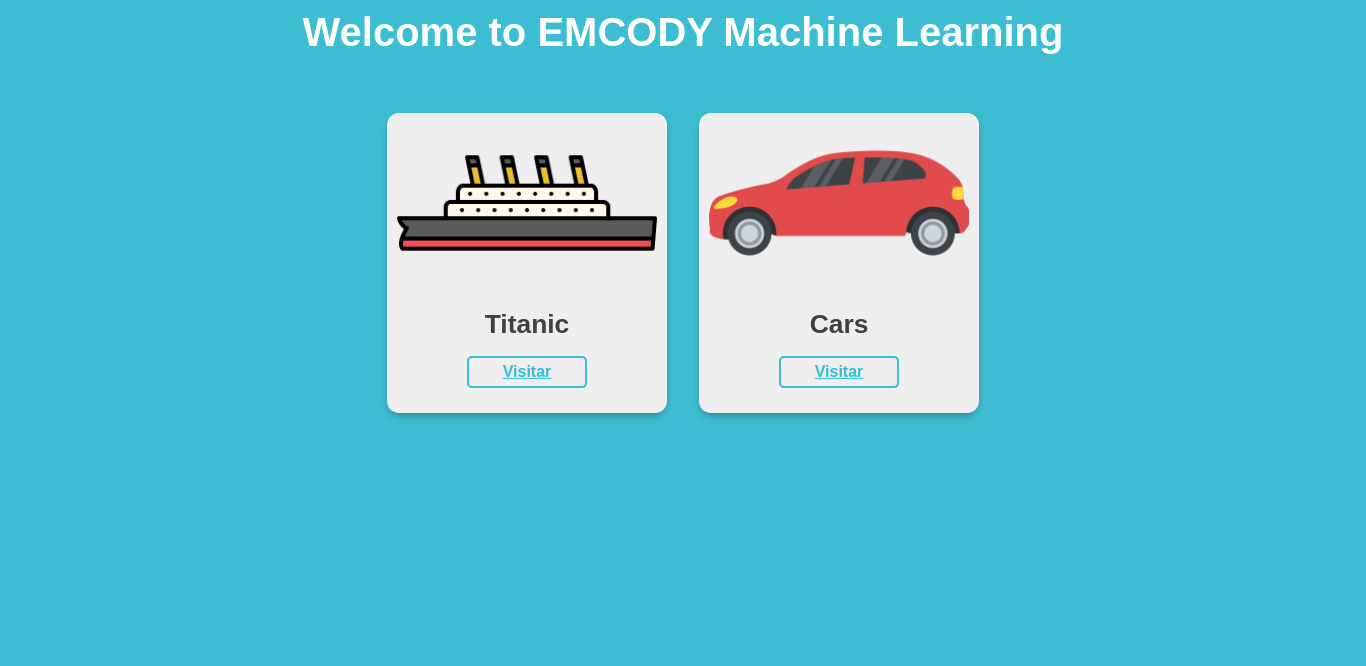
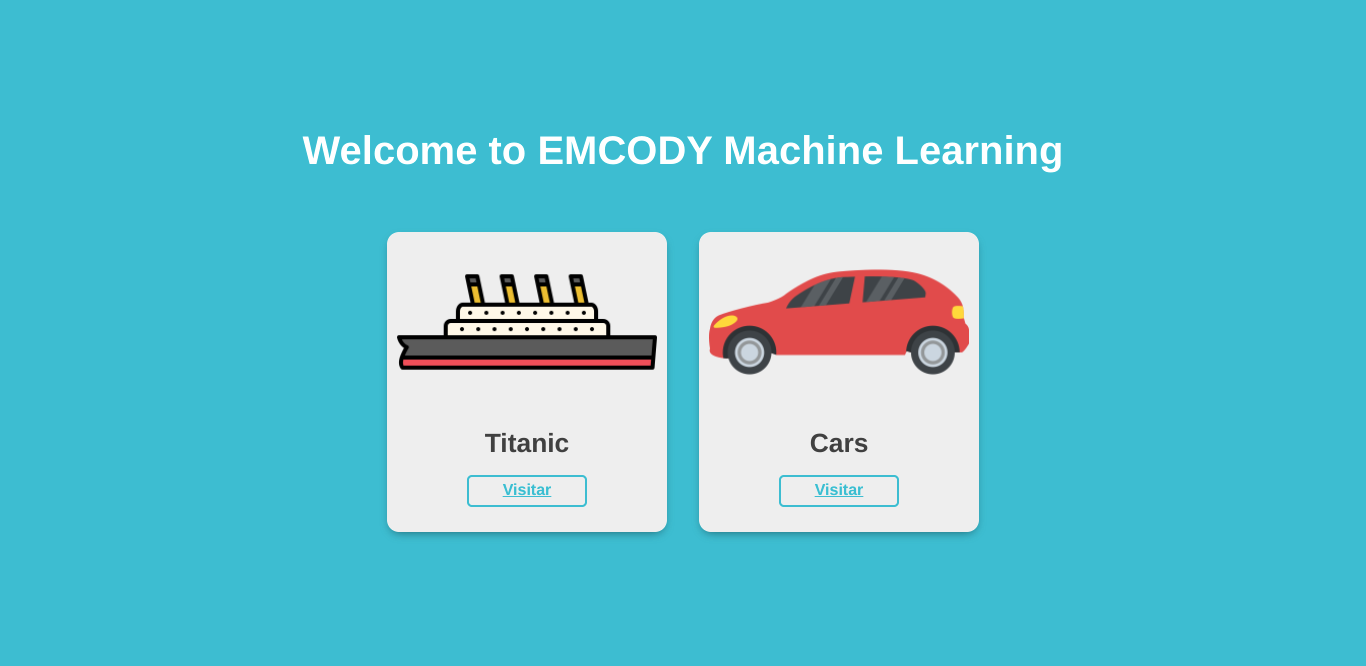
change the view of home

Changed region(s): [[0.2152, 0.1502, 0.7994, 0.8108], [0.2152, 0.03, 0.7994, 0.0901]]

diff --git a/css/main.css b/css/main.css
@@ -13,7 +13,7 @@ body {
   position: relative;
   display: block;
   max-width: 100%;
-  height: 100vh;
+  min-height: 100vh;
 }
 
 .header {
@@ -51,6 +51,7 @@ main {
 #bodyHome {
   display: flex;
   flex-flow: column;
+  justify-content: center;
   row-gap: 2em;
   background: var(--color-primary);
   min-height: 100vh;
